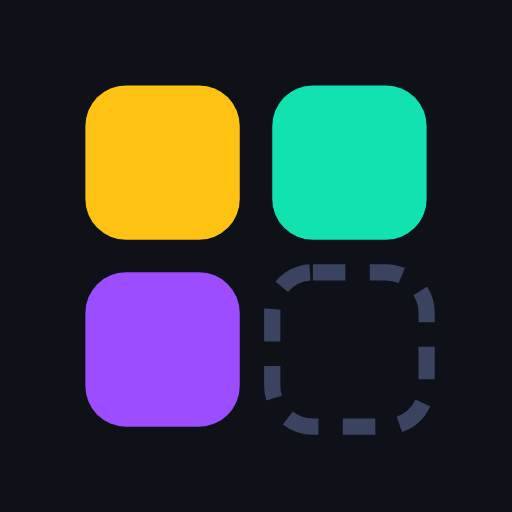
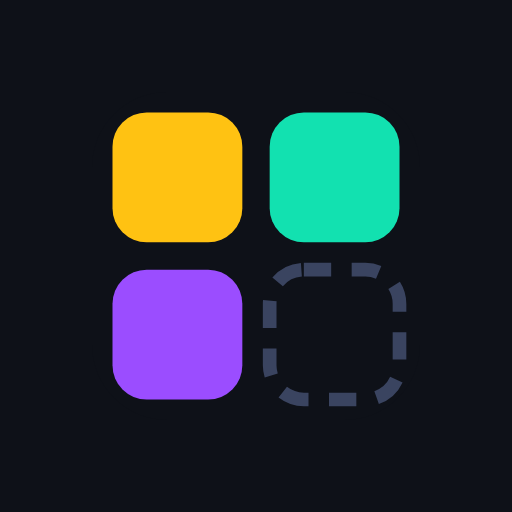
1.9.1: l'icona arrivava sul telefono con gli angoli rasati
Segnalato con una schermata della home: "icona tagliata". Il marchio di
PLINTO e' quadrato e occupava quasi tutta la tela, quindi la maschera del
launcher gli mangiava gli angoli; con una maschera a cerchio, che diversi
produttori usano, i quattro blocchi venivano proprio massacrati.

LA CAUSA E' UNA MISURA GUARDATA AL POSTO DI UN'ALTRA. Un'icona adattiva
Android ha una tela di 108dp: il sistema ne mostra al massimo 72 centrali,
ma la porzione garantita visibile QUALUNQUE forma scelga il produttore e'
un CERCHIO di 66dp su 108. Il margine era stato scelto sul quadrato
visibile invece che sul cerchio garantito, e su un marchio quadrato la
differenza fra le due misure e' esattamente cio' che si perde agli angoli.
Misurato: il marchio arrivava a 187px dal centro su una tela da 432, dove
la zona sicura ne ammette 132. Sporgeva di 55.

Margine da 0,18 a 0,28: raggio 129 su 132. Quattro margini provati e
guardati sotto le maschere vere, cerchio e squircle; 0,25 era ancora fuori
di 14px. Stessa correzione sull'icona "maskable" del sito, dove la
specifica web ammette un cerchio dell'80% del lato e il marchio ne usava
il 91%.

IL COMMENTO NEL GENERATORE DICHIARAVA PROPRIO LA PROPRIETA' CHE NON
VALEVA: c'era scritto che il marchio stava "dentro il cerchio sicuro di
Android". Non era una svista di scrittura, era una misura mai presa.
Adesso `npm run icone` misura il raggio sul PNG vero e si ferma se e'
fuori, e tests/icona.test.js rilegge quelle misure a ogni rilascio,
[…]

diff --git a/tools/misure-icone.js b/tools/misure-icone.js
@@ -1,0 +1,93 @@
+/**
+ * Le misure delle icone, in un posto solo.
+ *
+ * Stanno qui e non dentro tools/icone.mjs perche' le legge anche il test: quel file, se
+ * importato, apre un browser e rigenera tutto, cosa che un test unitario non deve fare.
+ *
+ * PERCHE' ESISTE QUESTO FILE. Il generatore dichiarava in un commento che il marchio
+ * stava "dentro il cerchio sicuro di Android". Misurato: il marchio aveva raggio 187
+ * pixel su una tela da 432 e il cerchio sicuro ne ammette 132. Sporgeva di 55 pixel, e
+ * sul telefono l'icona arrivava con gli angoli dei blocchi rasati dalla maschera del
+ * launcher. Il commento non era una svista di scrittura: era una misura mai presa.
+ * Adesso i numeri sono dati, non prosa, e un controllo li verifica sul PNG vero.
+ */
+
+/**
+ * LE DUE ZONE SICURE, CHE NON SONO LA STESSA COSA.
+ *
+ * Android, icona adattiva: la tela e' 108dp, il sistema ne mostra al massimo 72 centrali
+ * (il resto serve per il movimento di parallasse di alcuni launcher), e la porzione
+ * garantita visibile QUALUNQUE forma scelga il produttore -- cerchio, quadrato con
+ * angoli, goccia -- e' un CERCHIO di 66dp su 108. Il marchio di PLINTO e' quadrato,
+ * quindi sono i suoi angoli a decidere: vanno dentro quel cerchio, non dentro il
+ * quadrato che lo contiene.
+ *
+ * Web, icona "maskable": la specifica garantisce un cerchio di diametro pari all'80%
+ * del lato. E' piu' generosa di Android, e per una versione i due file erano lo stesso:
+ * sul sito il marchio si vedeva intero, sul telefono arrivava tagliato.
+ */
+export const ZONA_SICURA_ANDROID = 66 / 108 / 2;   // raggio, in frazione del lato
+export const ZONA_SICURA_WEB = 0.80 / 2;
+
+/** Dimensioni richieste dalle piattaforme, con la ragione di ciascuna. */
+export const MISURE = [
+  { nome: 'icona-192.png', lato: 192, margine: 0, uso: 'PWA, elenco applicazioni' },
+  { nome: 'icona-512.png', lato: 512, margine: 0, uso: 'PWA, schermata iniziale' },
+  {
+    nome: 'icona-maskable-512.png',
+    lato: 512,
+    // 0,18 porta il marchio dentro il cerchio dell'80% della specifica web. Era 0,12, e
+    // a quel valore il raggio del marchio era 230 pixel contro i 205 ammessi.
+    margine: 0.18,
+    zonaSicura: ZONA_SICURA_WEB,
+    uso: 'Android, ritaglio adattivo',
+  },
+  { nome: 'icona-apple-180.png', lato: 180, margine: 0, uso: 'iOS, aggiunta alla schermata home' },
+  { nome: 'icona-1024.png', lato: 1024, margine: 0, uso: 'schede degli store' },
+  { nome: 'favicon-32.png', lato: 32, margine: 0, uso: 'scheda del browser' },
+  // 432 = 108dp alla densita' xxxhdpi, la tela di un'icona adattiva.
+  {
+    nome: 'icona-android-primopiano-432.png',
+    lato: 432,
+    // 0,28 porta gli angoli del marchio a raggio 129 su un cerchio sicuro da 132.
+    // Era 0,18, cioe' raggio 187: il valore scelto guardando il QUADRATO visibile
+    // (72 su 108) invece del CERCHIO garantito (66 su 108). Su un marchio quadrato la
+    // differenza fra le due misure e' proprio quella che si perde agli angoli.
+    margine: 0.28,
+    zonaSicura: ZONA_SICURA_ANDROID,
+    trasparente: true,
+    uso: 'Android, primo piano dell\'icona adattiva',
+  },
+  // L'icona CLASSICA di Android, quella usata dove l'adattiva non arriva. Non e' un
+  // residuo storico: alcuni sistemi (MIUI in particolare) applicano una propria maschera
+  // anche a questa, e il marchio a tutto campo ci finisce sotto. Stesso margine
+  // dell'adattiva, ma con il fondo dipinto: qui non c'e' un livello sotto a metterlo.
+  {
+    nome: 'icona-android-classica-432.png',
+    lato: 432,
+    margine: 0.28,
+    zonaSicura: ZONA_SICURA_ANDROID,
+    soloMarchio: true,
+    uso: 'Android, icona classica',
+  },
+  // La schermata d'avvio. 768 = 192dp alla densita' xxxhdpi: un marchio grande ma non
+  // invadente, sopra il colore di fondo che mette la libreria.
+  //
+  // La misura non e' un dettaglio estetico. Prima qui c'era l'icona a 512px messa in
+  // `res/drawable/`, la cartella SENZA densita': Android la interpreta come 1x e la
+  // moltiplica per la densita' dello schermo, quindi su un telefono a 3x diventava un
+  // marchio da 1536px che riempiva lo schermo per due secondi. Sta in `drawable-xxxhdpi/`
+  // proprio per dire ad Android a quale densita' e' disegnata.
+  //
+  // Non ha zona sicura: la schermata d'avvio non viene ritagliata da nessuna maschera.
+  {
+    nome: 'icona-splash-768.png',
+    lato: 768,
+    margine: 0.28,
+    trasparente: true,
+    uso: 'Android, schermata d\'avvio',
+  },
+];
+
+/** Dove il generatore scrive le misure prese sui PNG veri. */
+export const REGISTRO = new URL('./icone-misurate.json', import.meta.url).pathname;

diff --git a/tests/icona.test.js b/tests/icona.test.js
@@ -1,5 +1,6 @@
 import { describe, it, expect } from 'vitest';
 import { readFileSync } from 'node:fs';
+import { MISURE, REGISTRO } from '../tools/misure-icone.js';
 
 /**
  * L'icona in public/ non puo' usare i token CSS: e' un file statico servito prima
@@ -37,5 +38,52 @@ describe('icona statica', () => {
   it('mantiene la geometria del logo (quarto riquadro tratteggiato e vuoto)', () => {
     expect(icona).toContain('stroke-dasharray="4 3"');
     expect((icona.match(/rx="5"/g) ?? []).length).toBe(4);
+  });
+});
+
+/**
+ * La zona sicura: che il marchio non finisca sotto la maschera del launcher.
+ *
+ * PERCHE' NON BASTAVA IL COMMENTO. Il generatore dichiarava che il marchio stava "dentro
+ * il cerchio sicuro di Android". Misurato dopo una segnalazione ("icona tagliata"): il
+ * marchio aveva raggio 187 pixel su una tela da 432, dove il cerchio sicuro ne ammette
+ * 132. Sporgeva di 55 pixel e gli angoli dei blocchi arrivavano rasati sul telefono.
+ *
+ * L'errore di partenza era guardare la misura sbagliata: il quadrato visibile (72 su
+ * 108) invece del CERCHIO garantito (66 su 108). Su un marchio quadrato come questo la
+ * differenza fra le due e' esattamente cio' che si perde agli angoli.
+ *
+ * I numeri qui sotto vengono da `npm run icone`, che li misura sui PNG veri e si ferma
+ * se sono fuori. Questo test li rilegge perche' il gate non rigenera le icone: senza,
+ * la garanzia varrebbe solo per chi si ricorda di lanciare quel comando.
+ */
+describe('zona sicura delle icone', () => {
+  const registro = JSON.parse(readFileSync(REGISTRO, 'utf8'));
+
+  it('il marchio sta dentro la zona sicura di ogni piattaforma', () => {
+    const conZona = MISURE.filter((m) => m.zonaSicura);
+    expect(registro.misurate.length, 'icone misurate').toBe(conZona.length);
+
+    for (const misura of registro.misurate) {
+      const px = (v) => Math.round(v * misura.lato);
+      expect(
+        misura.raggio,
+        `${misura.nome}: il marchio arriva a ${px(misura.raggio)}px dal centro, `
+        + `la zona sicura ne ammette ${px(misura.zonaSicura)}px`,
+      ).toBeLessThanOrEqual(misura.zonaSicura);
+    }
+  });
+
+  it('le misure registrate sono quelle dichiarate adesso, non di due margini fa', () => {
+    // Il registro e' un'istantanea: se qualcuno cambia un margine e non rigenera, i PNG
+    // sono vecchi quanto il registro e la verifica sopra starebbe certificando dei file
+    // che non esistono piu'. Qui si confrontano i due, e a divergere basta un numero.
+    for (const misura of registro.misurate) {
+      const dichiarata = MISURE.find((m) => m.nome === misura.nome);
+      expect(dichiarata, `${misura.nome} non e piu' fra le misure dichiarate`).toBeTruthy();
+      expect(dichiarata.margine, `${misura.nome}: margine`).toBe(misura.margine);
+      expect(dichiarata.lato, `${misura.nome}: lato`).toBe(misura.lato);
+      expect(dichiarata.zonaSicura, `${misura.nome}: zona sicura`).toBe(misura.zonaSicura);
+    }
   });
 });

diff --git a/docs/CHANGELOG.md b/docs/CHANGELOG.md
@@ -7,6 +7,58 @@ Tutte le modifiche degne di nota a PLINTO. Il formato segue una versione semplif
 La versione è dichiarata in un solo posto — il campo `version` di `package.json` — e
 `vite.config.js` la inietta nel bundle come `__APP_VERSION__`.
 
+## [1.9.1] — 11 settembre 2026
+
+### Corretto
+
+**L'icona sul telefono arrivava con gli angoli rasati.**
+Segnalato da chi ce l'ha installata, con una schermata della home: «icona tagliata». Il
+marchio di PLINTO e' quadrato e occupava quasi tutta la tela, quindi la maschera del
+launcher gli mangiava gli angoli. Con una maschera a cerchio, che diversi produttori
+usano, i quattro blocchi venivano proprio massacrati.
+
+**La causa e' una misura guardata al posto di un'altra.** Un'icona adattiva Android ha
+una tela di 108dp; il sistema ne mostra al massimo 72 centrali, ma la porzione garantita
+visibile QUALUNQUE forma scelga il produttore e' un **cerchio** di 66dp su 108. Il
+margine era stato scelto sul quadrato visibile invece che sul cerchio garantito, e su un
+marchio quadrato la differenza fra le due misure e' esattamente cio' che si perde agli
+angoli. Misurato: il marchio arrivava a 187 pixel dal centro su una tela da 432, dove la
+zona sicura ne ammette 132. Sporgeva di 55.
+
+Il margine passa da 0,18 a 0,28 per lato: il raggio scende a 129 pixel, dentro i 132. Con
+quattro margini provati e guardati sotto le maschere vere (cerchio e squircle), 0,25 era
+ancora fuori di 14 pixel. Stessa correzione sull'icona «maskable» del sito, dove la
+specifica web ammette un cerchio dell'80% del lato e il marchio ne usava il 91%.
+
+**Il commento nel generatore dichiarava proprio la proprieta' che non valeva.** C'era
+scritto che il marchio stava «dentro il cerchio sicuro di Android»: non era una svista di
+scrittura, era una misura mai presa. Adesso `npm run icone` misura il raggio sul PNG vero
+e si ferma se e' fuori, e un test rilegge quelle misure a ogni rilascio, perche' il gate
+non rigenera le icone. Verificato che il controllo fallisca davvero rimettendo i vecchi
+margini: si ferma, dicendo di quanti pixel si sporge e dove correggere.
+
+### Corretto anche
+
+**La corsia veloce del gate poteva non vedere un file nuovo.**
+L'elenco dei file che decidono come si gioca veniva chiesto a `git ls-files`, che elenca
+solo cio' che e' gia' versionato: un file scritto ma non ancora aggiunto era invisibile
+all'impronta. E' successo davvero, con `src/core/incitamenti.js`, rimasto fuori dal
+registro di un giro completo andato a buon fine.
+
+Quella volta e' finita nel verso innocuo: al giro dopo il file risultava comparso dal
+nulla e la corsia veloce e' stata negata, rigiocando i cento livelli. Ma il verso
+pericoloso e' l'altro: un file che decide come si gioca e che resta non versionato non
+viene visto CAMBIARE, e la corsia veloce salterebbe i cento livelli su codice modificato.
+Adesso l'elenco chiede anche i file non versionati, rispettando il `.gitignore`.
+Verificato che la differenza esista davvero: con un file finto in `src/core/`, il vecchio
+metodo non lo vedeva e quello corretto si'.
+
+### Nota per chi pubblica
+
+La correzione arriva subito a chi usa il sito o l'ha installato dal browser. **L'icona di
+chi l'ha presa dal Play Store sta dentro l'app bundle**, quindi cambia solo ricompilando
+e ricaricando l'AAB. Il `versionCode` e' gia' pronto a 10307.
+
 ## [1.9.0] — 11 settembre 2026
 
 ### Aggiunto
